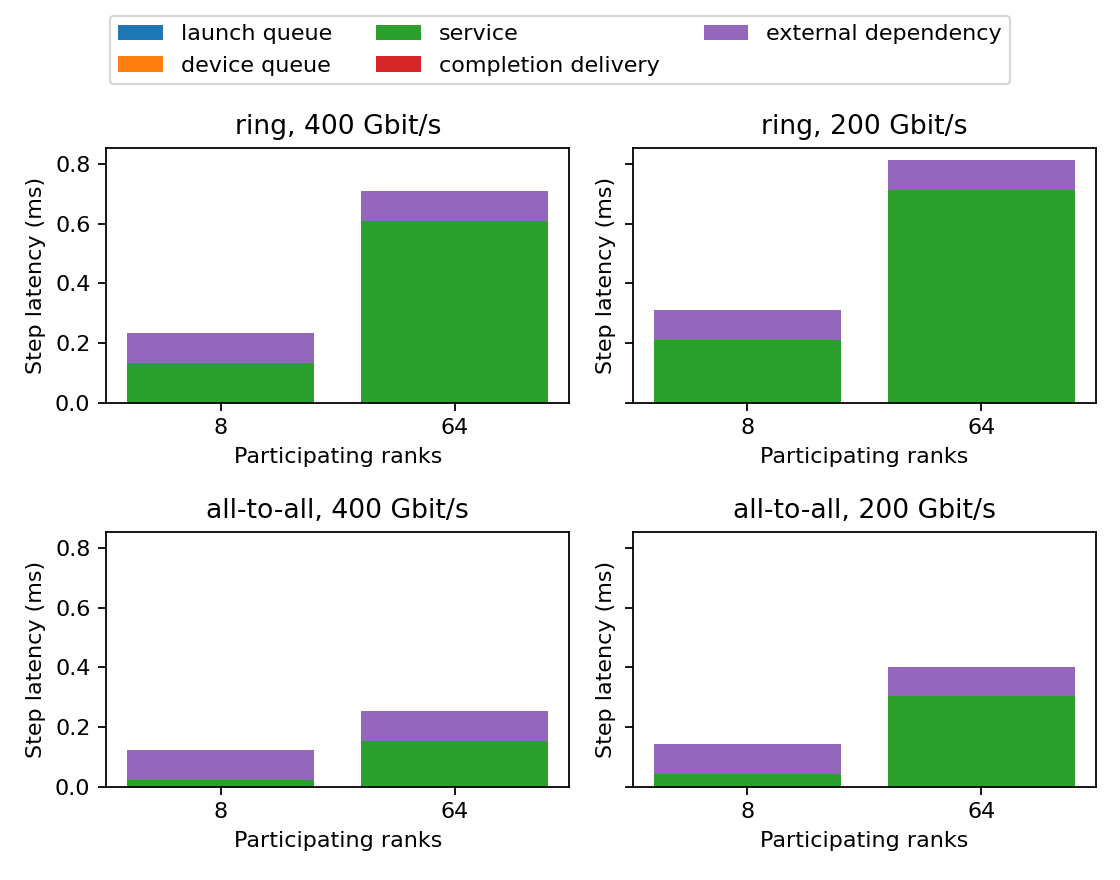
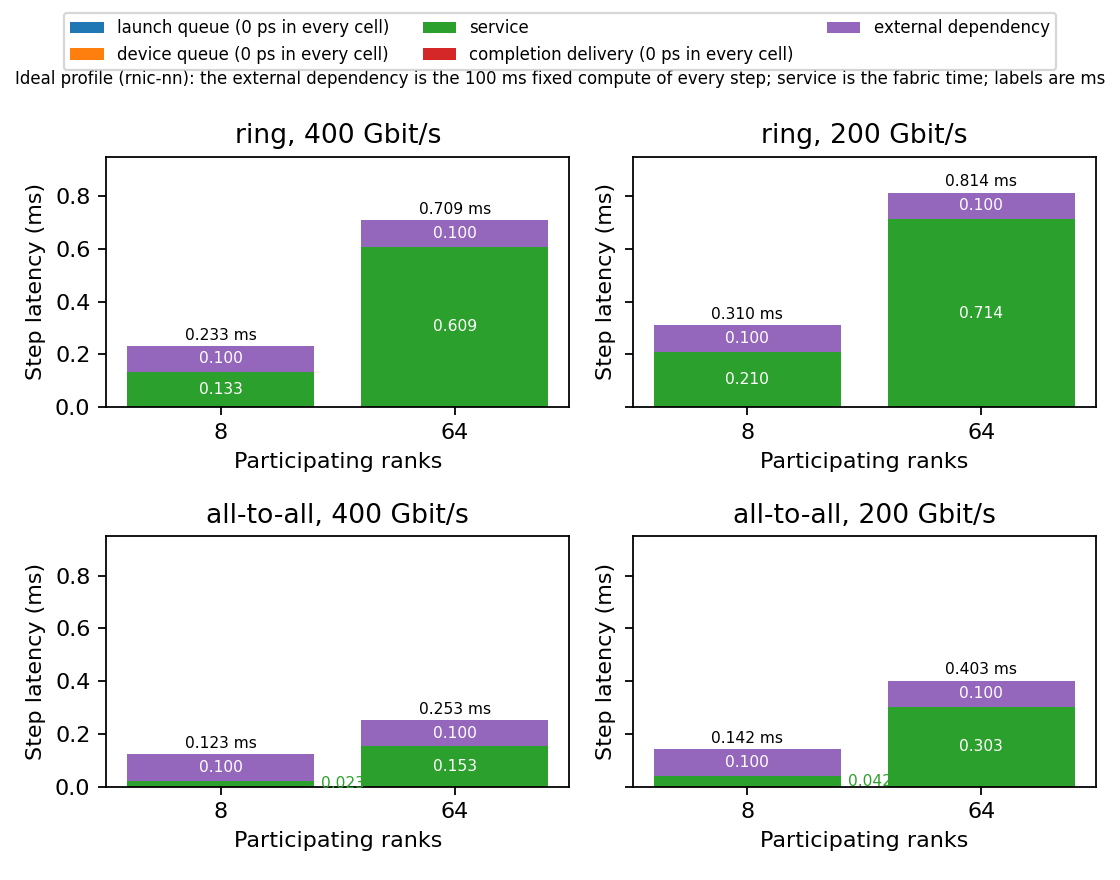
Label the packet breakdown segments and totals and name the zero segments in the legend

diff --git a/examples/packet_breakdown_v1/run_study.py b/examples/packet_breakdown_v1/run_study.py
@@ -390,18 +390,34 @@ def plot(rows, directory):
                            and r["status"] == "complete" and r["pattern"] == pattern
                            and r["rate"] == rate), key=lambda r: r["width"])
         bottom = [0.] * len(selected)
+        labels = [str(r["width"]) for r in selected]
         for field in segments:
             values = [r["steps"][0][field] / 1e9 for r in selected]
-            axis.bar([str(r["width"]) for r in selected], values, bottom=bottom,
-                     label=field.removesuffix("_ps").replace("_", " "))
+            name = field.removesuffix("_ps").replace("_", " ")
+            if all(v == 0 for r in rows if r["kind"] == "width" and r["status"] == "complete"
+                   for v in [r["steps"][0][field]]):
+                name += " (0 ps in every cell)"
+            axis.bar(labels, values, bottom=bottom, label=name)
+            for x, (base, value) in enumerate(zip(bottom, values, strict=True)):
+                if value >= 0.06:
+                    axis.text(x, base + value / 2, f"{value:.3f}", ha="center", va="center",
+                              fontsize=7, color="white")
+                elif value > 0:
+                    axis.text(x + 0.43, base + value / 2, f"{value:.3f}", ha="left",
+                              va="center", fontsize=7, color="C2")
             bottom = [a + b for a, b in zip(bottom, values, strict=True)]
+        for x, total in enumerate(bottom):
+            axis.text(x, total + 0.012, f"{total:.3f} ms", ha="center", va="bottom", fontsize=7)
         axis.set_title(f"{pattern}, {rate} Gbit/s")
         axis.set_xlabel("Participating ranks")
         axis.tick_params(axis="x", labelbottom=True)
         axis.set_ylabel("Step latency (ms)")
+        axis.set_ylim(0, 0.95)
     fig.legend(*axes.flat[0].get_legend_handles_labels(), loc="upper center", ncol=3,
-               bbox_to_anchor=(.5, .995))
-    fig.tight_layout(rect=(0, 0, 1, .90))
+               bbox_to_anchor=(.5, .995), fontsize=7.5)
+    fig.text(0.5, 0.905, "Ideal profile (rnic-nn): the external dependency is the 100 ms fixed compute of every step;"
+             " service is the fabric time; labels are ms", ha="center", fontsize=7.5)
+    fig.tight_layout(rect=(0, 0, 1, .89))
     fig.savefig(directory / "packet_breakdown.png", dpi=160)
     fig.savefig(directory / "packet_breakdown.pdf", metadata={"CreationDate": None})
     plt.close(fig)
